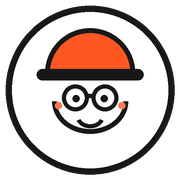
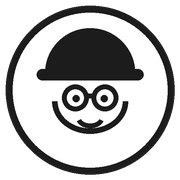
fix(theme): remove default orange accent from base white theme to match Spencer Gabor monochrome base

diff --git a/src/app/[locale]/layout.tsx b/src/app/[locale]/layout.tsx
@@ -112,12 +112,12 @@ export async function generateMetadata({ params }: LayoutProps): Promise<Metadat
     },
     icons: {
       icon: [
-        { url: "/favicon.svg?v=20261115", type: "image/svg+xml" },
-        { url: "/icon.png?v=20261115", sizes: "512x512", type: "image/png" },
-        { url: "/favicon.ico?v=20261115", sizes: "any" },
+        { url: "/favicon.svg?v=20261115b", type: "image/svg+xml" },
+        { url: "/icon.png?v=20261115b", sizes: "512x512", type: "image/png" },
+        { url: "/favicon.ico?v=20261115b", sizes: "any" },
       ],
-      shortcut: "/favicon.svg?v=20261115",
-      apple: "/apple-touch-icon.png?v=20261115",
+      shortcut: "/favicon.svg?v=20261115b",
+      apple: "/apple-touch-icon.png?v=20261115b",
     },
     manifest: "/manifest.json",
   };
@@ -138,10 +138,10 @@ export default async function LocaleLayout({ children, params }: LayoutProps) {
   return (
     <html lang={locale} className={`h-full antialiased ${displayFont.variable} ${bodyFont.variable}`} data-theme="white" suppressHydrationWarning>
       <head>
-        <link rel="icon" type="image/svg+xml" href="/favicon.svg?v=20261115" />
-        <link rel="icon" type="image/png" sizes="512x512" href="/icon.png?v=20261115" />
-        <link rel="alternate icon" href="/favicon.ico?v=20261115" />
-        <link rel="apple-touch-icon" href="/apple-touch-icon.png?v=20261115" />
+        <link rel="icon" type="image/svg+xml" href="/favicon.svg?v=20261115b" />
+        <link rel="icon" type="image/png" sizes="512x512" href="/icon.png?v=20261115b" />
+        <link rel="alternate icon" href="/favicon.ico?v=20261115b" />
+        <link rel="apple-touch-icon" href="/apple-touch-icon.png?v=20261115b" />
         <script
           dangerouslySetInnerHTML={{
             __html: `(function(){try{var t=localStorage.getItem('portfolio-theme')||'white';document.documentElement.setAttribute('data-theme',t);}catch(e){}})()`,

diff --git a/src/app/globals.css b/src/app/globals.css
@@ -37,7 +37,7 @@
   --color-surface: #ffffff;
   --color-surface-muted: #f6f6f6;
   --color-border: rgba(0, 0, 0, 0.08);
-  --color-accent: #ff5722;
+  --color-accent: #1c1c1c;
   --color-accent-contrast: #ffffff;
   --color-pill-bg: #1c1c1c;
   --color-pill-text: #ffffff;
